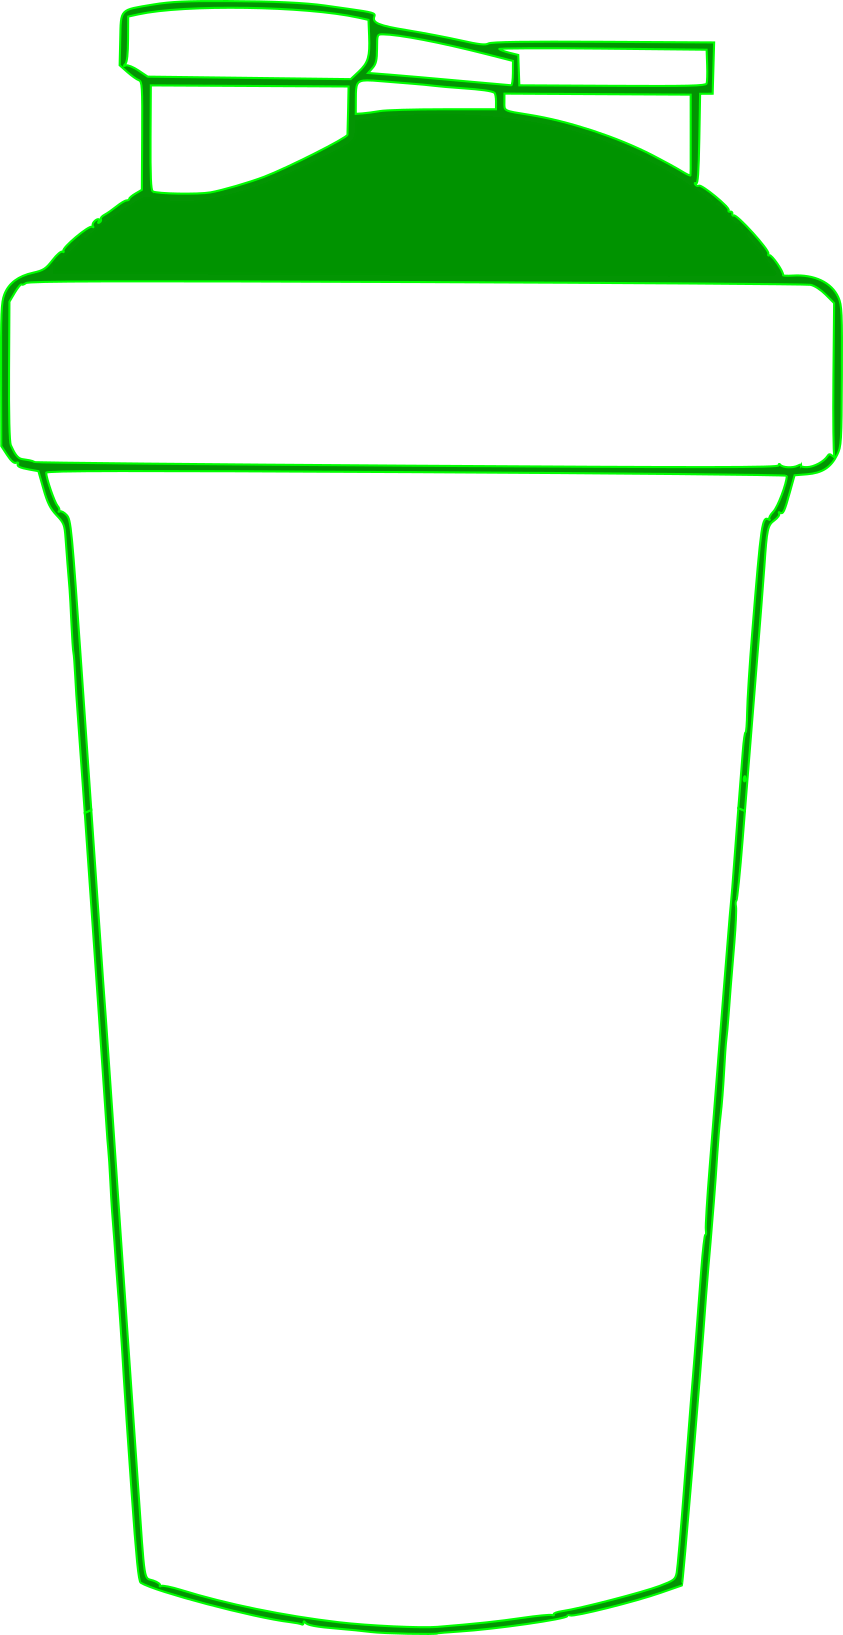
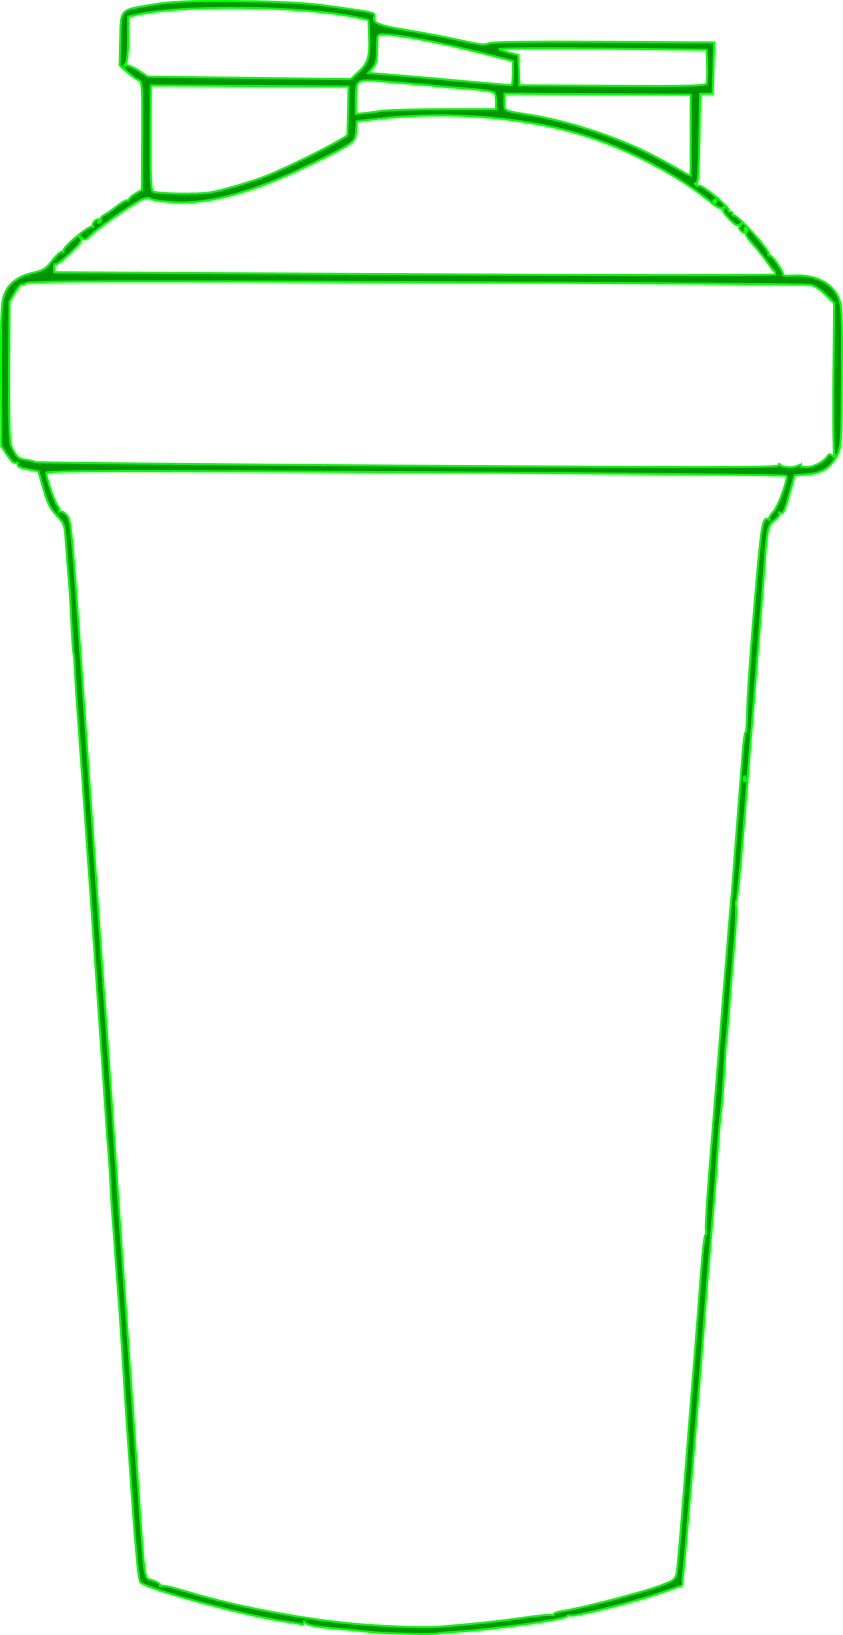
Enhanced navigation styles and improved image responsiveness also added hover animation to the information cards

Changed region(s): [[0.0617, 0.0624, 0.9253, 0.1872]]

diff --git a/main.css b/main.css
@@ -44,6 +44,7 @@ nav {
   display: none;
   padding: 1rem;
   column-gap: 32px;
+  text-transform: uppercase;
 }
 
 .nav-links li {
@@ -66,7 +67,6 @@ nav {
   grid-template-columns: 1fr;
   min-height: 88vh;
   place-items: center;
-  border-bottom: 1px solid rgb(87, 87, 87);
 }
 
 .hero-text {
@@ -168,25 +168,24 @@ nav {
   display: flex;
   align-items: center;
   justify-content: center;
-  padding: 36px;
+  padding: 54px;
 }
 
 .image-frame img {
-  width: 100%;
-  max-width: 300px;
-  max-height: 600px;
+  width: 90%;
+  max-height: 650px;
   transform: rotateZ(-5deg);
 }
 
 .image-frame img:hover {
-  animation: shake 0.9s ease-in-out;
+  animation: shake 0.9s ease-in-out reverse;
   cursor: pointer;
 }
 
 /* ANIMATIONS */
 @keyframes shake {
   0% {
-    transform: rotate(0deg) translateX(0);
+    transform: rotate(0eg) translateX(0);
   }
 
   15% {
@@ -206,21 +205,21 @@ nav {
   }
 
   75% {
-    transform: rotate(-3deg) translateX(0);
+    transform: rotate(-5deg) translateX(0);
   }
 
   100% {
-    transform: rotate(-5deg) translateX(0);
+    transform: rotate(0deg) translateX(0);
   }
 }
 
 /* SECOND SECTION STYLES */
 .second-section {
   color: white;
-  padding: 32px 0;
+  padding: 45px 0;
   display: flex;
   place-items: center;
-  flex-direction: column;  
+  flex-direction: column;
 }
 
 .information-container {
@@ -229,8 +228,8 @@ nav {
   padding: 24px;
   gap: 24px;
   width: 100%;
- 
-  
+  max-width: 1100px;
+  margin-top: 50px;
 }
 
 .information-card {
@@ -242,8 +241,12 @@ nav {
   height: 100%;
 }
 
+.information-card:hover {
+  animation: shake 1s;
+}
+
 .information-card h1 {
-  font-size: 28px;
+  font-size: 24px;
   padding: 12px 0;
   margin-bottom: auto;
 }
@@ -252,7 +255,6 @@ nav {
   font-size: 18px;
   color: gray;
   padding: 12px 0;
-  
 }
 
 .green-tag {
@@ -260,13 +262,13 @@ nav {
   width: max-content;
   border-radius: 10px;
   display: flex;
-  padding: 0 12px
-  
+  padding: 0 12px;
 }
 
 .green-tag p {
   color: greenyellow;
 }
+
 
 /* MEDIA QUERIES */
 @media (min-width: 768px) {